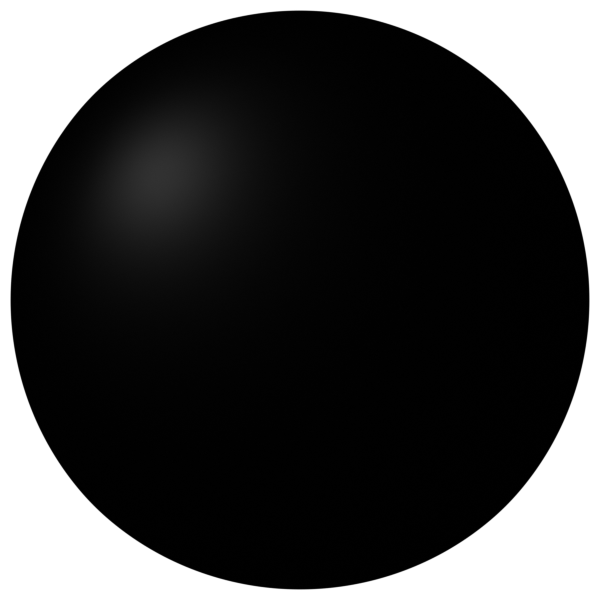
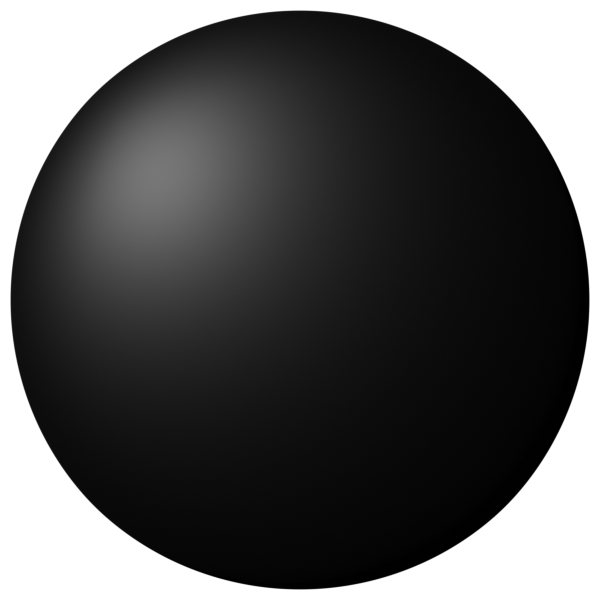
Updated to add stone marker

Changed region(s): [[0.03, 0.06, 0.66, 0.66]]

diff --git a/examples/gui/main.rs b/examples/gui/main.rs
@@ -1,7 +1,8 @@
 #[allow(unused_imports)]
 use clap::{App, Arg};
-use go::*;
 use glium::glutin;
+use go::*;
+use egui::Key::{ArrowRight, ArrowLeft};
 
 mod board_shader;
 mod stone_shader;
@@ -25,7 +26,6 @@ fn create_display(event_loop: &glutin::event_loop::EventLoop<()>) -> glium::Disp
 }
 
 fn main() -> Result<(), GoError> {
-
     let matches = App::new("sgf_viewer")
         .version("0.1.0")
         .author("Bruce McIntosh <bruce.e.mcintosh@gmail.com>")
@@ -39,7 +39,10 @@ fn main() -> Result<(), GoError> {
         )
         .get_matches();
 
-    let file_name = matches.value_of("file").map(|f| f.to_string()).ok_or(GoError::Other("No file parameter".to_string()))?;
+    let file_name = matches
+        .value_of("file")
+        .map(|f| f.to_string())
+        .ok_or(GoError::Other("No file parameter".to_string()))?;
 
     let event_loop = glutin::event_loop::EventLoop::with_user_event();
     let display = create_display(&&event_loop);
@@ -96,9 +99,7 @@ fn main() -> Result<(), GoError> {
     let mut ss = stone_shader::Shader::new(&display);
 
     println!("Parsing game");
-    let game =
-        go::Game::from_sgf_file(file_name)
-            .unwrap();
+    let game = go::Game::from_sgf_file(file_name).unwrap();
     let mut move_number: usize = 0;
 
     println!("Running GUI");
@@ -107,12 +108,23 @@ fn main() -> Result<(), GoError> {
         let mut redraw = || {
             egui.begin_frame(&display);
 
+            if egui.ctx().input().key_pressed(ArrowRight) {
+                if move_number < game.get_final_move_number() {
+                    move_number = move_number + 1;
+                }
+            }
+            if egui.ctx().input().key_pressed(ArrowLeft) {
+                if move_number > 0 {
+                    move_number = move_number - 1;
+                }
+            }
+
             let mut quit = false;
 
             let d = display.get_framebuffer_dimensions();
 
             egui::SidePanel::left("my_side_panel", 300.0).show(egui.ctx(), |ui| {
-            // egui::Window::new("my_side_panel").show(egui.ctx(), |ui| {
+                // egui::Window::new("my_side_panel").show(egui.ctx(), |ui| {
                 // ui.heading("Hello World!");
                 if ui.button("Quit").clicked() {
                     quit = true;
@@ -146,20 +158,25 @@ fn main() -> Result<(), GoError> {
                         }
                     }
                     if ui.button(">").clicked() {
-                        if move_number < game.get_move_number() {
+                        if move_number < game.get_final_move_number() {
                             move_number = move_number + 1;
                         }
                     }
                     if ui.button(">>").clicked() {
-                        move_number = game.get_move_number();
+                        move_number = game.get_final_move_number();
                     }
                     ui.label(move_number.to_string());
                     ui.label(" of ");
-                    ui.label(game.get_move_number().to_string());
-                    });
+                    ui.label(game.get_final_move_number().to_string());
+                });
 
-                ui.add(egui::Slider::new(&mut move_number, 0..=game.get_move_number()).text("Move"));
-
+                ui.spacing_mut().slider_width = 300.0;
+                ui.add(
+                    egui::Slider::new(&mut move_number, 0..=game.get_final_move_number())
+//                        .text("Move")
+                        .show_value(false)
+                        .clamp_to_range(true)
+                );
             });
 
             let (needs_repaint, shapes) = egui.end_frame(&display);
@@ -191,20 +208,30 @@ fn main() -> Result<(), GoError> {
                 // ss.render(&mut target, &black_stone_tex, d);
                 let board = game.get_board(move_number).unwrap();
 
-                for r in 0..19 {
-                    for c in 0..19 {
+                for r in 0..game.get_board_size() {
+                    for c in 0..game.get_board_size() {
                         if let Ok(p) = board.get_point(r, c) {
                             match p {
                                 PointState::Filled {
-                                    move_number:_,
+                                    move_number: smn,
                                     stone_color,
                                 } => match stone_color {
-                                    Color::White => {
-                                        ss.render(&mut target, &white_stone_tex, d, r, c)
-                                    }
-                                    Color::Black => {
-                                        ss.render(&mut target, &black_stone_tex, d, r, c)
-                                    }
+                                    Color::White => ss.render(
+                                        &mut target,
+                                        &white_stone_tex,
+                                        d,
+                                        r,
+                                        c,
+                                        if move_number > 0 && move_number == smn {1} else {0},
+                                    ),
+                                    Color::Black => ss.render(
+                                        &mut target,
+                                        &black_stone_tex,
+                                        d,
+                                        r,
+                                        c,
+                                        if move_number > 0 && move_number == smn {2} else {0},
+                                    ),
                                 },
                                 _ => {}
                             }

diff --git a/examples/gui/stone_shader.rs b/examples/gui/stone_shader.rs
@@ -50,8 +50,6 @@ impl Shader {
           uniform float row;
           uniform float col;
 
-
-
           out vec2 v_tex_coords;
 
           void main() {
@@ -75,11 +73,35 @@ impl Shader {
         in vec2 v_tex_coords;
 
         uniform sampler2D colour_texture;
+        uniform int mark;
 
         out vec4 fragColor;
 
         void main() {
            fragColor = texture(colour_texture, v_tex_coords);
+           if (mark > 0) {
+               float radius = 0.3;
+               float boarder_thick = 0.05;
+               float d = distance (vec2(0.5,0.5), v_tex_coords);
+               float t1 = 1.0 - smoothstep(radius-boarder_thick, radius, d);
+               float t2 = 1.0 - smoothstep(radius, radius+boarder_thick, d);
+               if (mark == 1) {
+                 fragColor = vec4(mix(fragColor.rgb, mix(vec3(0.0), fragColor.rgb, t1), t2), fragColor.a);
+               }
+               else {
+                 fragColor = vec4(mix(fragColor.rgb, mix(vec3(0.8), fragColor.rgb, t1), t2), fragColor.a);
+               }
+               
+               //fragColor = vec4(vec3(0.75)-fragColor.rgb, fragColor.a);
+               //if (d < 0.3 && d > 0.2) {
+               //  if (fragColor.r < 0.3) {
+               //      fragColor = vec4(vec3(0.75)-fragColor.rgb, fragColor.a);
+               //  }
+               //  else {
+               //      fragColor = vec4(fragColor.rgb-vec3(0.9), fragColor.a);
+               //  }
+               //}
+           }
         }
     "#;
 
@@ -106,23 +128,21 @@ impl Shader {
         d: (u32, u32),
         r: usize,
         c: usize,
+        mark: i32,
     ) {
         let uniforms = uniform! {
         colour_texture : texture,
         w : d.0 as f32,
         h : d.1 as f32,
         row : (18-r) as f32,
-        col : c as f32};
+        col : c as f32,
+        mark : mark};
 
         let params = glium::DrawParameters {
             blend: glium::draw_parameters::Blend::alpha_blending(),
             ..Default::default()
         };
 
-        //         let params = glium::DrawParameters {
-        // //            polygon_mode: Line,
-        //             .. Default::default()
-        //         };
         target
             .draw(
                 &self.vertex_buffer,

diff --git a/src/lib.rs b/src/lib.rs
@@ -148,18 +148,18 @@ mod tests {
     #[test]
     fn move_numbers() {
         let game = Game::new(19);
-        assert_eq!(game.get_move_number(), 0);
+        assert_eq!(game.get_final_move_number(), 0);
         let game = Game::from_sgf_file("./resources/The_59th_Judan_Title_Match_3rd_game.sgf".to_string()).unwrap();
-        assert_eq!(game.get_move_number(), 337);
+        assert_eq!(game.get_final_move_number(), 337);
     }
 
     #[test]
     fn place_stones() {
         let mut game = Game::new(19);
         game.place_handicap_stone(Intersection::new(2,2)).ok();
-        assert_eq!(game.get_move_number(), 0);
+        assert_eq!(game.get_final_move_number(), 0);
         game.place_stone(Intersection::new(3,3), Color::White).ok();
-        assert_eq!(game.get_move_number(), 1);
+        assert_eq!(game.get_final_move_number(), 1);
         let board = game.get_board(1).unwrap();
         assert_eq!(board.to_ascii(),
             ".  .  .  .  .  .  .  .  .  .  .  .  .  .  .  .  .  .  .  \n\

diff --git a/src/game.rs b/src/game.rs
@@ -13,6 +13,7 @@ use super::Parser;
 use super::SgfNode;
 
 pub struct Game {
+    board_size: usize,
     player_black: String,
     player_white: String,
     rank_black: String,
@@ -26,6 +27,7 @@ pub struct Game {
 impl Game {
     pub fn new(board_size: usize) -> Game {
         Game {
+            board_size,
             player_black: "".to_string(),
             player_white: "".to_string(),
             rank_black: "".to_string(),
@@ -39,6 +41,7 @@ impl Game {
 
     pub fn from_sgf(parser: &Parser) -> Game {
         Game {
+            board_size: parser.get_board_size(),
             player_black: parser.get_player_black(),
             player_white: parser.get_player_white(),
             rank_black: parser.get_rank_black(),
@@ -50,7 +53,11 @@ impl Game {
         }
     }
 
-    pub fn get_move_number(&self) -> usize {
+    pub fn get_board_size(&self) -> usize {
+        self.board_size
+    }
+
+    pub fn get_final_move_number(&self) -> usize {
         self.move_number
     }
 

diff --git a/examples/gui/board_shader.rs b/examples/gui/board_shader.rs
@@ -51,10 +51,10 @@ impl Shader {
         out vec4 fragColor;
 
         void main() {
-            if (min(v_tex_coords.x, v_tex_coords.y) < 0.048) {
+            if (min(v_tex_coords.x, v_tex_coords.y) < 0.049) {
               fragColor = texture(colour_texture, v_tex_coords);
             }
-            else if (max(v_tex_coords.x, v_tex_coords.y) > 0.952) {
+            else if (max(v_tex_coords.x, v_tex_coords.y) > 0.951) {
               fragColor = texture(colour_texture, v_tex_coords);
             }
             else if (distance(vec2(0.2,0.2), v_tex_coords) < 0.007) {
@@ -86,7 +86,7 @@ impl Shader {
             }
             else {
               vec2 v = cos(v_tex_coords*20.0*2.0*3.1415192);
-              fragColor = vec4(1.0)-smoothstep(0.92,1.0,max(v.x,v.y));
+              fragColor = vec4(1.0)-smoothstep(0.95,1.0,max(v.x,v.y));
               if (fragColor.x > 0.5) {
                   fragColor = texture(colour_texture, v_tex_coords);
               }

diff --git a/src/bin/to_ascii.rs b/src/bin/to_ascii.rs
@@ -20,7 +20,7 @@ fn main() -> Result<(), GoError> {
 
     let file_name = matches.value_of("file").map(|f| f.to_string()).ok_or(GoError::Other("No file parameter".to_string()))?;
     let game = go::Game::from_sgf_file(file_name)?;
-    let board = game.get_board(game.get_move_number()).unwrap();
+    let board = game.get_board(game.get_final_move_number()).unwrap();
     println!("{}", board.to_ascii());
     Ok(())
 }
